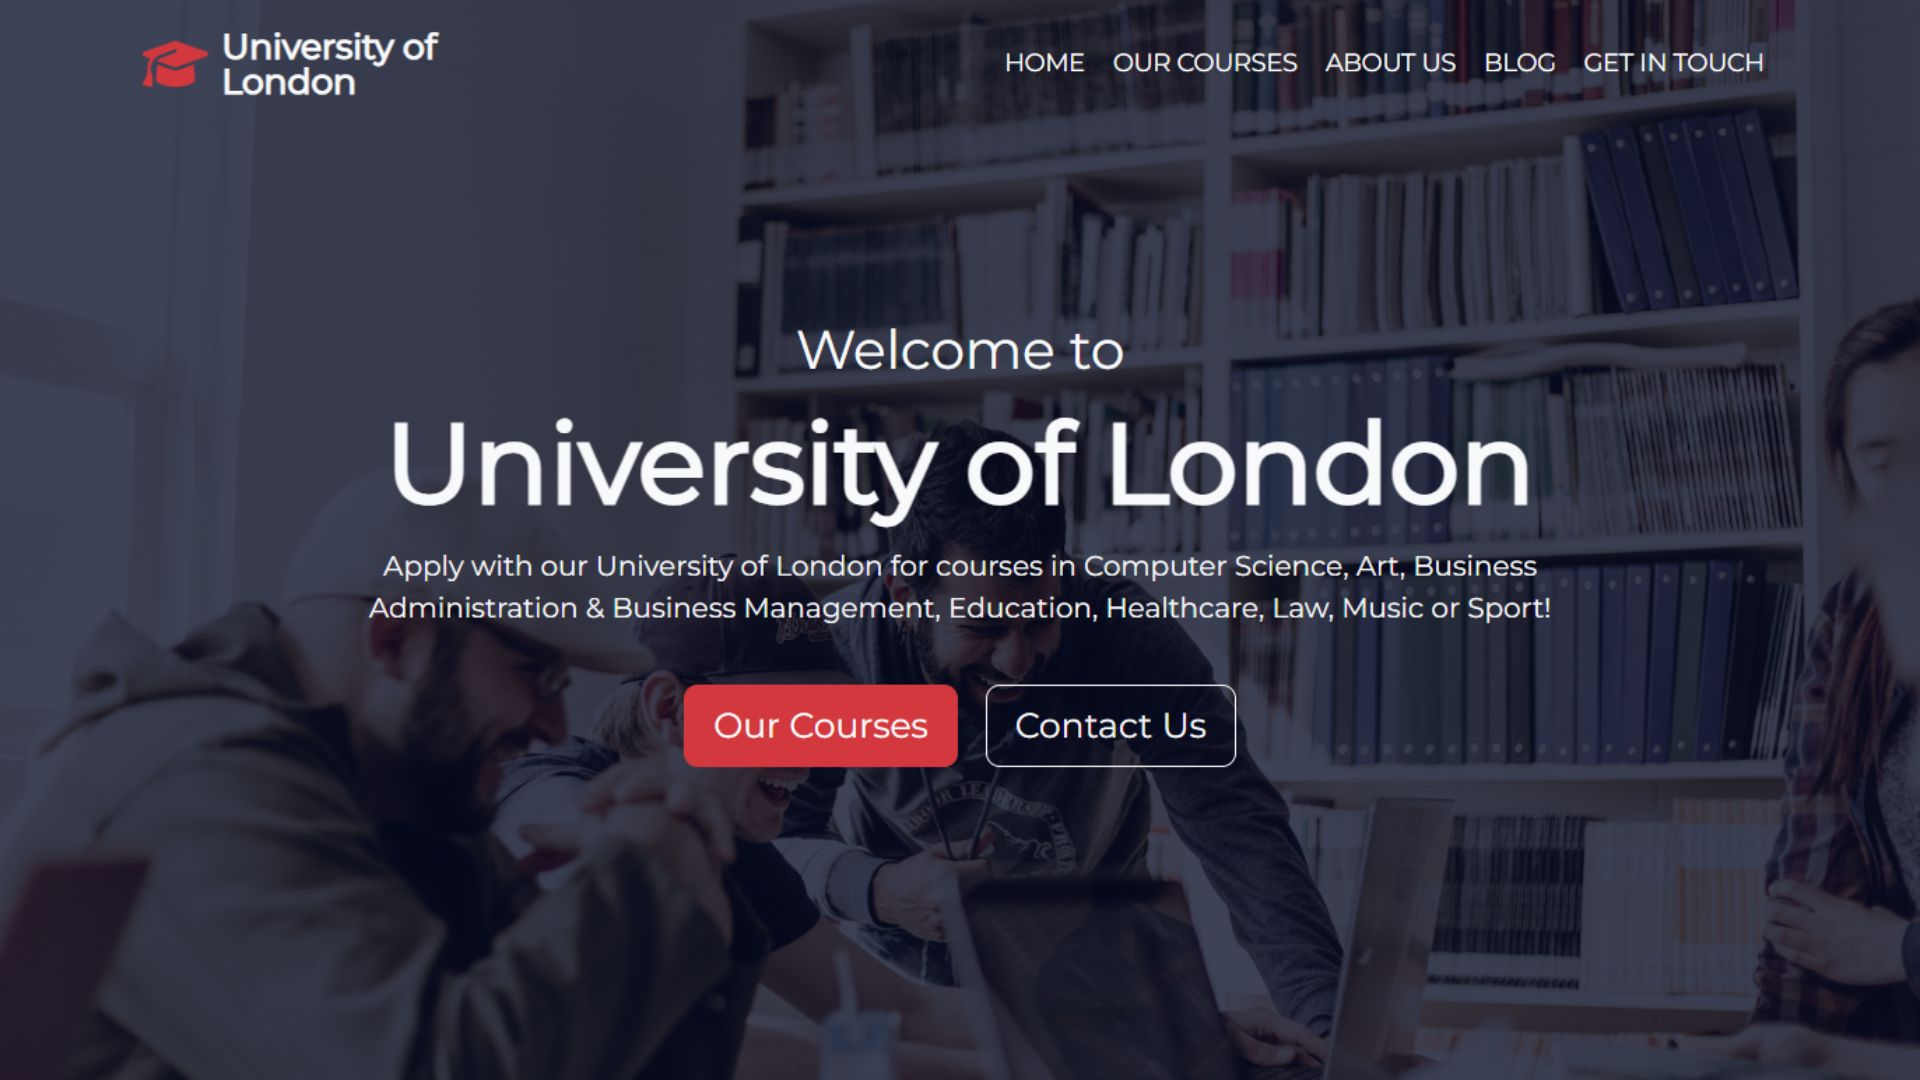
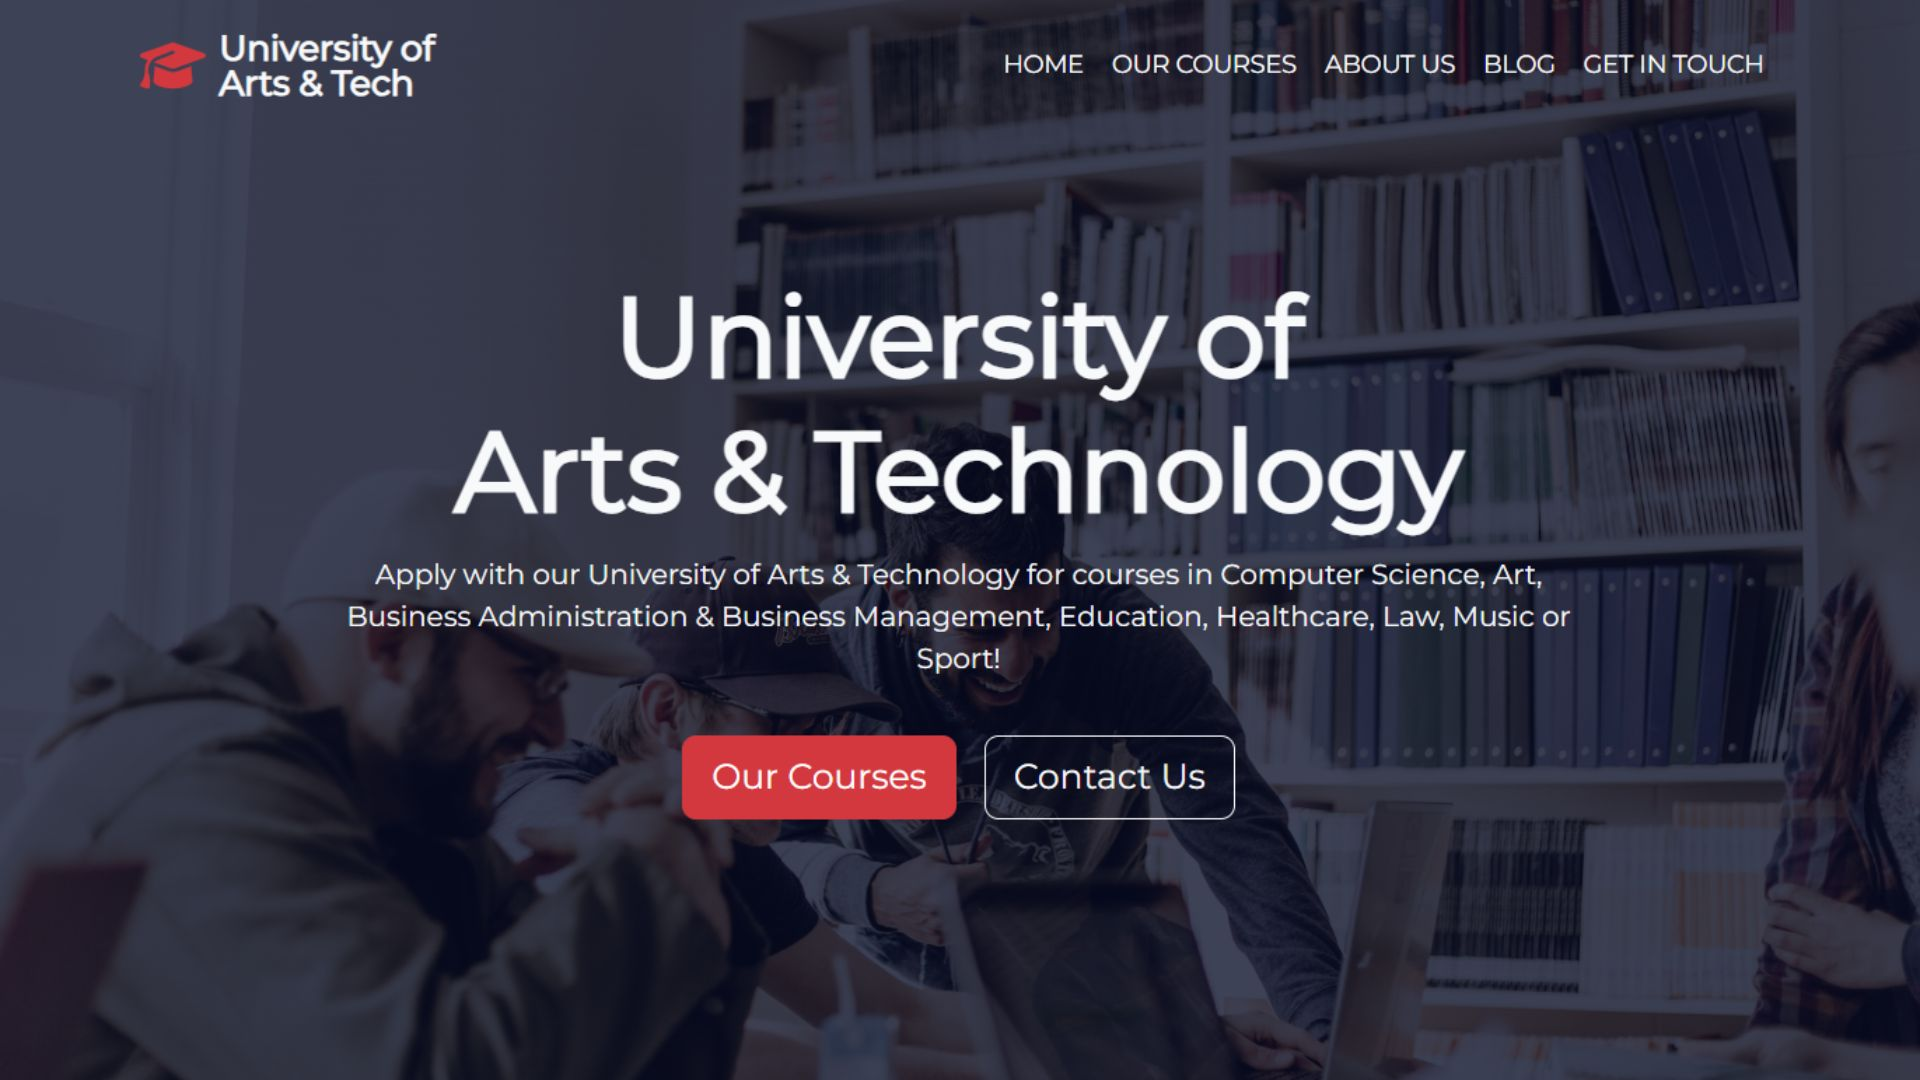
readme file updates

diff --git a/README.md b/README.md
@@ -1,4 +1,4 @@
-# React JS University of London Website - Bootstrap 5 Design
+# React JS University of Arts & Technology - Bootstrap 5 Design
 
 ## View live website: https://ionut-cora.github.io/react-university-website/
 
@@ -17,7 +17,7 @@
 - npm start
 - [http://localhost:3000](http://localhost:3000) - open in your browser to see the project
 
-## The University of London template website is a multi page custom demo website created with [React JS](https://react.dev/) and designed with [React Bootstrap](https://react-bootstrap.netlify.app/).
+## The University of Arts & Technology template website is a multi page custom demo website created with [React JS](https://react.dev/) and designed with [React Bootstrap](https://react-bootstrap.netlify.app/).
 The website contain 5 pages: Home, About, Courses, Blog and Contact. Also contains few components like accordion component for example.
 
 # Getting Started with Create React App
